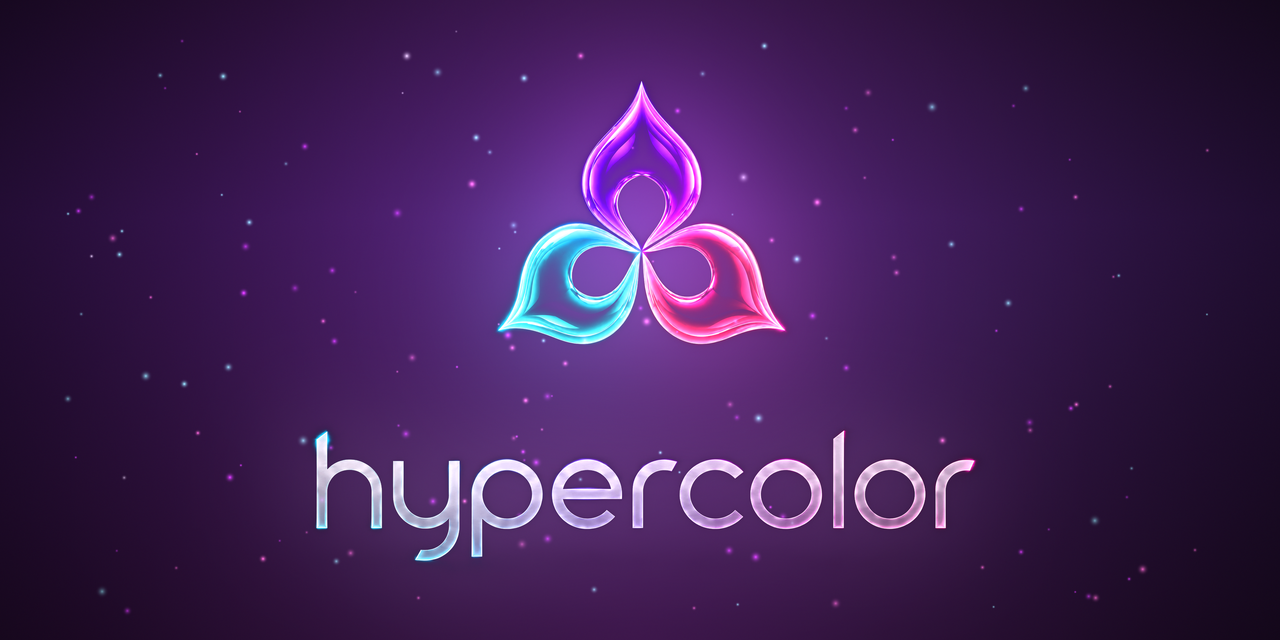
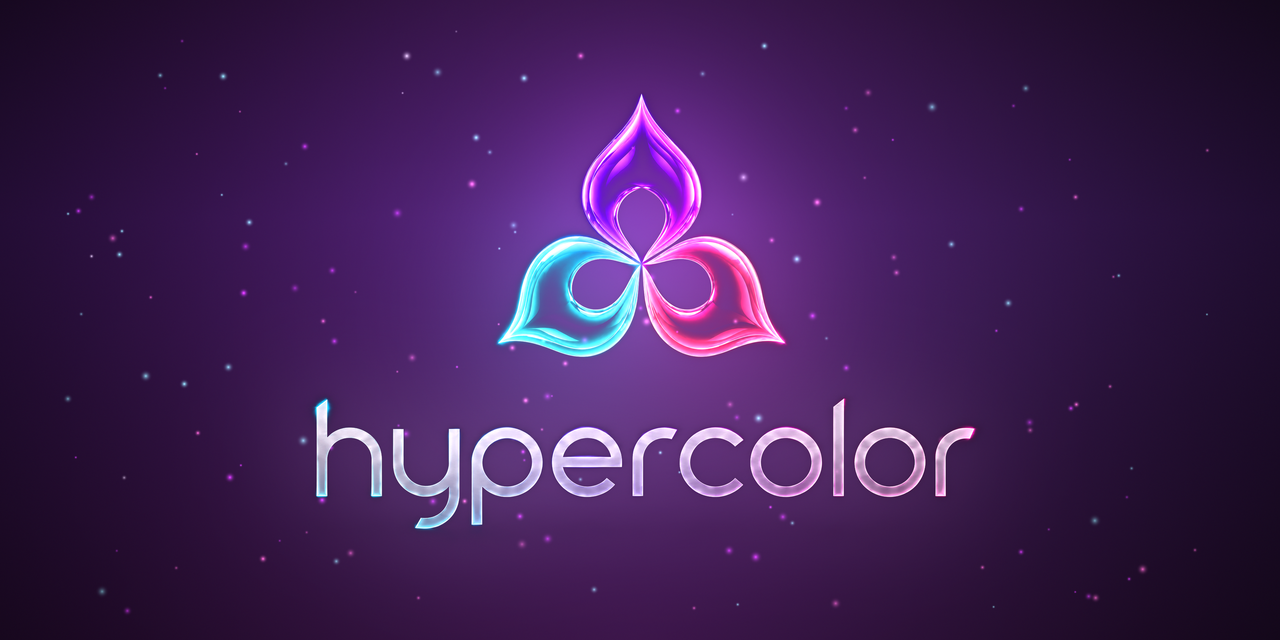
style(brand): tighten the social preview mark-to-wordmark spacing
The wordmark sat low enough that the composition read as two separate
elements. Pulling it up under the mark makes the lockup one group again
while keeping both clear of GitHub's card crop.

Claude-Session: https://claude.ai/code/session_013dXbUNEe4yxrGhQLXbzRou

Changed region(s): [[0.2188, 0.625, 0.7812, 0.875], [0.375, 0.125, 0.625, 0.5625]]

diff --git a/assets/brand/build.py b/assets/brand/build.py
@@ -838,7 +838,7 @@ def build_social() -> None:
     # Settings page takes under Social preview; the checked-in copy at
     # social/hypercolor-social.png is regenerated from here.
     _luminary_vertical(
-        1280, 640, mark_wf=0.28, mark_y=0.09, wm_wf=0.58, wm_y=0.62, sparkles=160
+        1280, 640, mark_wf=0.28, mark_y=0.11, wm_wf=0.58, wm_y=0.57, sparkles=160
     ).save(out / "github-social.png")
 
     # Discord server icon 512
